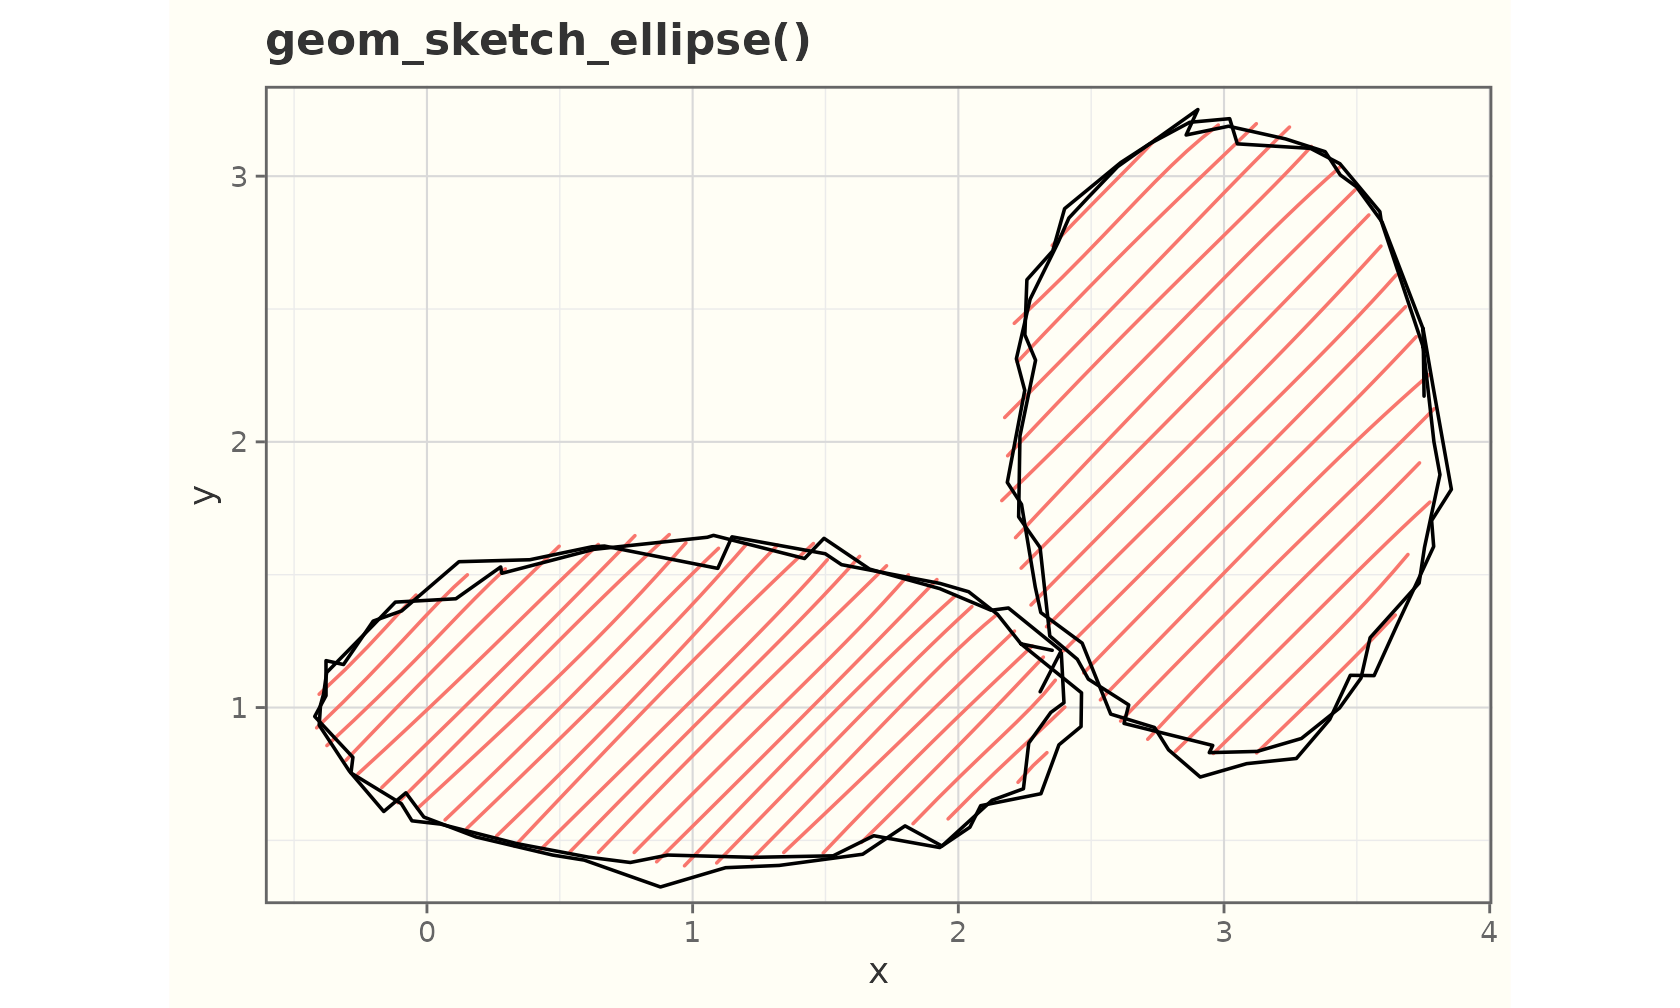
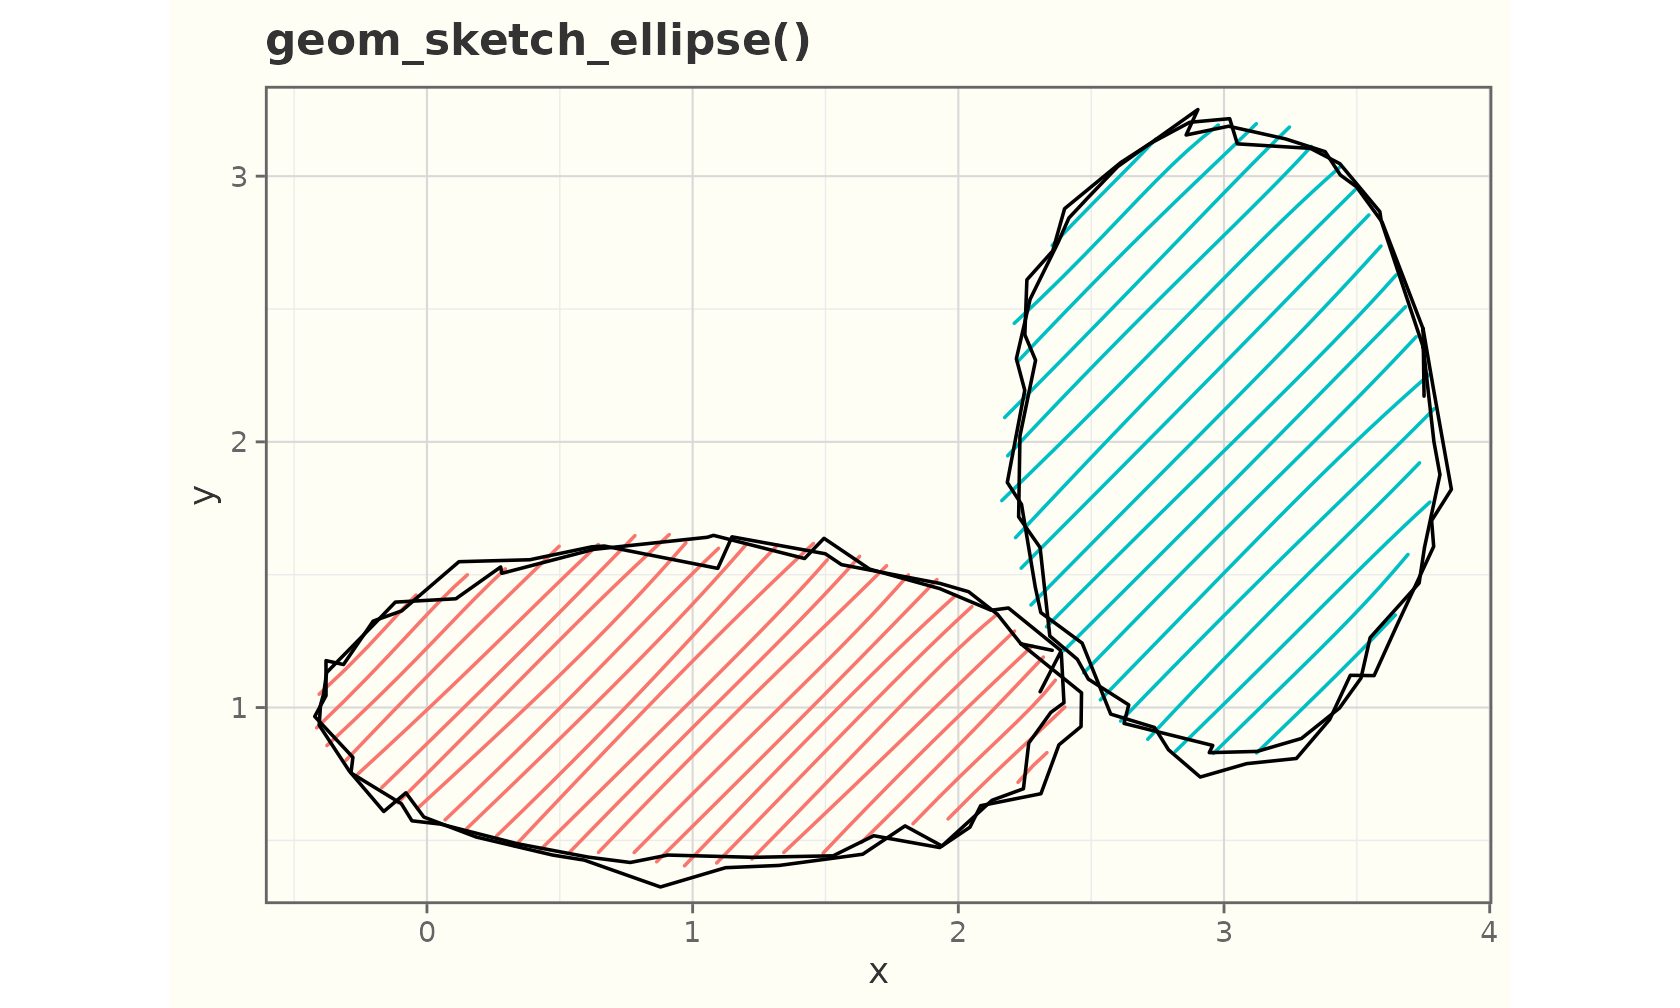
Deploying to gh-pages from @ orijitghosh/ggsketch@5e387d9c8b05a9e24957bbf95940d92370fe8dd2 🚀

Changed region(s): [[0.5881, 0.123, 0.8357, 0.7381]]

diff --git a/news/index.html b/news/index.html
@@ -57,7 +57,12 @@
 <strong>New fill style <code>"scribble"</code></strong> — one continuous winding stroke that overshoots the boundary, like scribbling to fill a shape. Available everywhere a <code>fill_style</code> is accepted.</li>
 <li>
 <strong>Reproducible fonts.</strong> <code><a href="../reference/register_sketch_font.html">register_sketch_font()</a></code> registers a handwriting font file (via systemfonts) so the result reproduces on any machine or CI runner without a system install; the font resolver now also finds registered fonts.</li>
+</ul><div class="section level4">
+<h4 id="bug-fixes-1-4-0">Bug fixes<a class="anchor" aria-label="anchor" href="#bug-fixes-1-4-0"></a></h4>
+<ul><li>
+<code><a href="../reference/geom_sketch_point.html">geom_sketch_point()</a></code> (and <code><a href="../reference/geom_sketch_circle.html">geom_sketch_circle()</a></code> / <code><a href="../reference/geom_sketch_circle.html">geom_sketch_ellipse()</a></code>) now draw each mark in its own colour when the colour/fill aesthetic varies within a single group — e.g. a continuous scale such as <code><a href="../reference/scale_sketch.html">scale_colour_sketch_c()</a></code>. Previously every mark took the first point’s colour, so a gradient looked flat.</li>
 </ul></div>
+</div>
     <div class="section level2">
 <h2 class="pkg-version" data-toc-text="1.3.0" id="ggsketch-130">ggsketch 1.3.0<a class="anchor" aria-label="anchor" href="#ggsketch-130"></a></h2>
 <p>New geoms (Tier 3, first batch — 2-D density and text):</p>

diff --git a/news/index.md b/news/index.md
@@ -31,6 +31,19 @@ new fill style, and reproducible fonts.
   reproduces on any machine or CI runner without a system install; the
   font resolver now also finds registered fonts.
 
+#### Bug fixes
+
+- [`geom_sketch_point()`](https://orijitghosh.github.io/ggsketch/reference/geom_sketch_point.md)
+  (and
+  [`geom_sketch_circle()`](https://orijitghosh.github.io/ggsketch/reference/geom_sketch_circle.md)
+  /
+  [`geom_sketch_ellipse()`](https://orijitghosh.github.io/ggsketch/reference/geom_sketch_circle.md))
+  now draw each mark in its own colour when the colour/fill aesthetic
+  varies within a single group — e.g. a continuous scale such as
+  [`scale_colour_sketch_c()`](https://orijitghosh.github.io/ggsketch/reference/scale_sketch.md).
+  Previously every mark took the first point’s colour, so a gradient
+  looked flat.
+
 ## ggsketch 1.3.0
 
 New geoms (Tier 3, first batch — 2-D density and text):